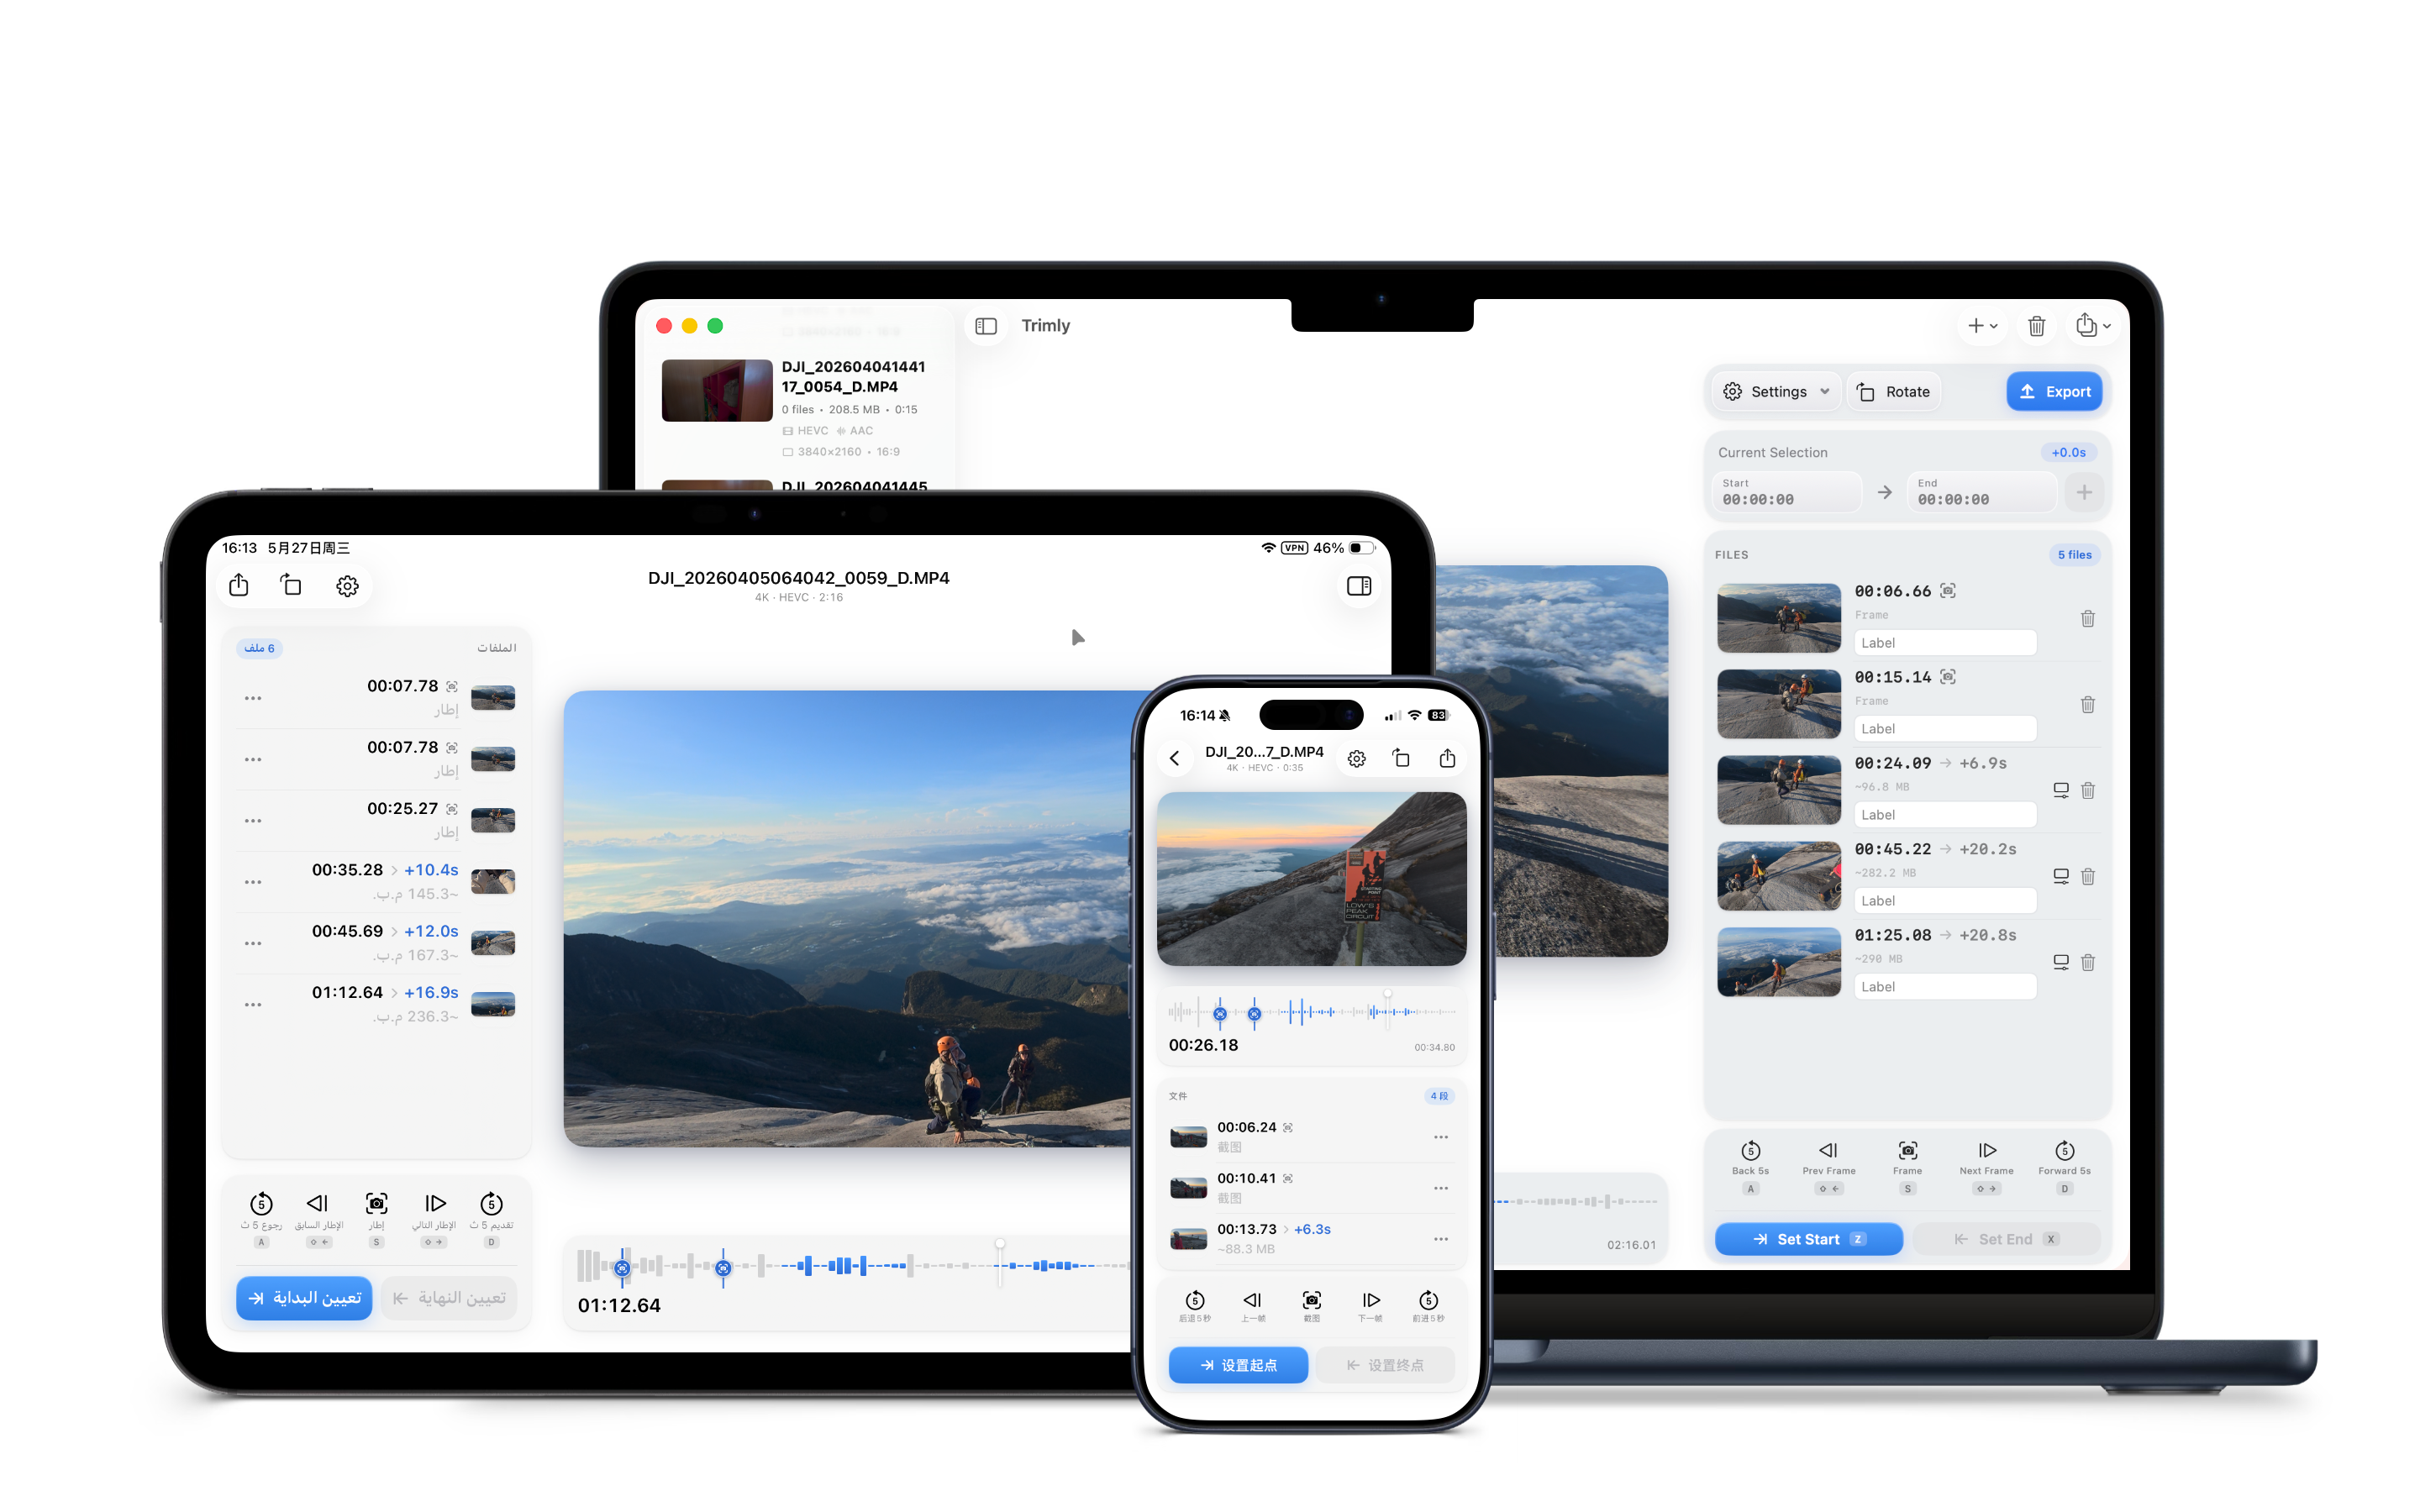
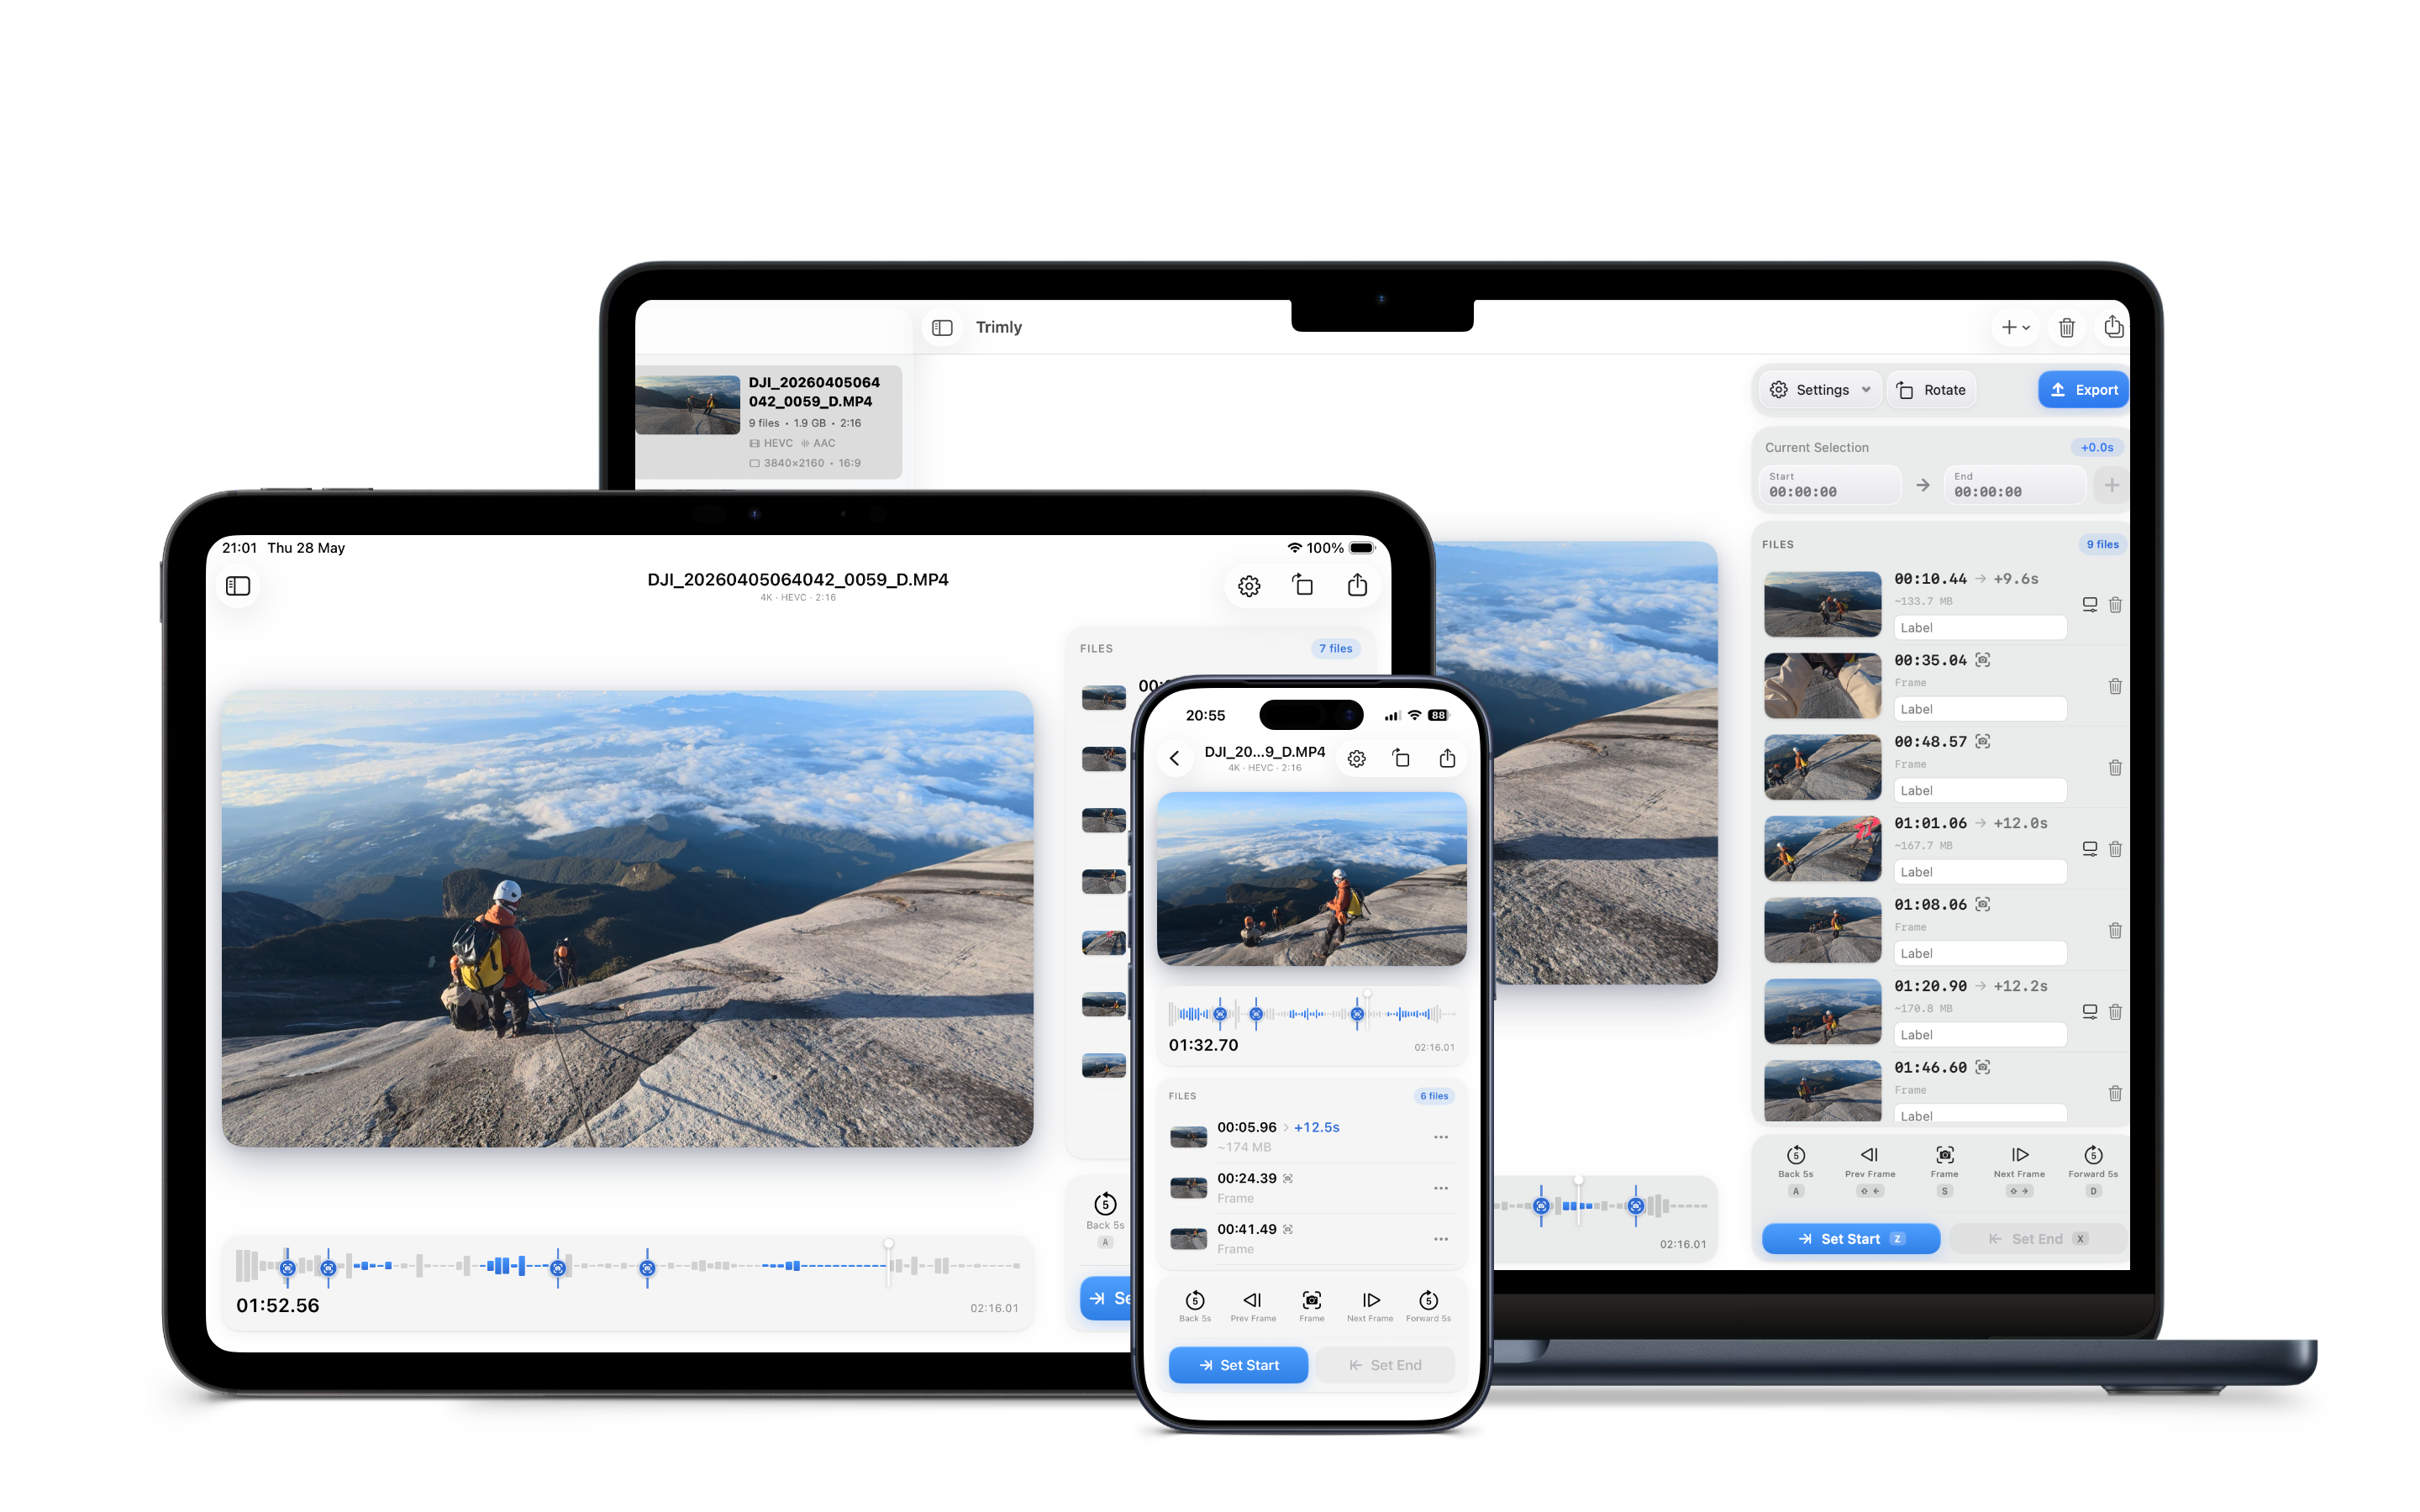
update

diff --git a/index.html b/index.html
@@ -437,130 +437,6 @@
       letter-spacing: 0.03em;
     }
 
-    /* === SHOWCASE (devices) === */
-    .showcase {
-      padding: 96px 24px;
-      background: var(--bg-dark);
-      color: #fff;
-      margin-top: 64px;
-    }
-
-    .showcase-inner { max-width: var(--max-w); margin: 0 auto; }
-
-    .showcase h2 {
-      text-align: center;
-      font-size: clamp(28px, 4vw, 40px);
-      font-weight: 700;
-      letter-spacing: -0.025em;
-      margin-bottom: 16px;
-    }
-
-    .showcase-subtitle {
-      text-align: center;
-      font-size: clamp(15px, 2vw, 18px);
-      color: rgba(255,255,255,0.5);
-      max-width: 480px;
-      margin: 0 auto 64px;
-    }
-
-    /* Carousel */
-    .carousel { max-width: 700px; margin: 0 auto; }
-
-    .carousel-stage {
-      position: relative;
-      height: 460px;
-      display: flex;
-      align-items: center;
-      justify-content: center;
-    }
-
-    .carousel-slide {
-      position: absolute;
-      inset: 0;
-      display: flex;
-      align-items: center;
-      justify-content: center;
-      opacity: 0;
-      transform: translateY(14px) scale(0.97);
-      transition: opacity 0.6s var(--ease), transform 0.6s var(--ease);
-      pointer-events: none;
-    }
-
-    .carousel-slide.active {
-      opacity: 1;
-      transform: none;
-      pointer-events: auto;
-    }
-
-    .carousel-dots {
-      display: flex;
-      justify-content: center;
-      gap: 10px;
-      margin-top: 32px;
-    }
-
-    .carousel-dot {
-      width: 8px;
-      height: 8px;
-      padding: 0;
-      border: none;
-      border-radius: 50%;
-      background: rgba(255,255,255,0.25);
-      cursor: pointer;
-      transition: width 0.3s var(--ease), background 0.3s var(--ease), border-radius 0.3s var(--ease);
-    }
-
-    .carousel-dot:hover { background: rgba(255,255,255,0.5); }
-    .carousel-dot.active { width: 24px; border-radius: 4px; background: #fff; }
-
-    @media (max-width: 767px) {
-      .showcase { padding: 64px 20px 72px; margin-top: 48px; }
-      .showcase-subtitle { margin-bottom: 48px; }
-      .carousel-stage { height: 400px; }
-    }
-
-    .device { border-radius: 16px; overflow: hidden; position: relative; }
-
-    .device-phone {
-      aspect-ratio: 9 / 19.5;
-      background: linear-gradient(145deg, #2c2c2e, #3a3a3c);
-      border: 1px solid rgba(255,255,255,0.08);
-      border-radius: 28px;
-      height: 100%;
-      width: auto;
-    }
-
-    .device-mac {
-      aspect-ratio: 2694 / 1758;
-      background: linear-gradient(145deg, #2c2c2e, #3a3a3c);
-      border: 1px solid rgba(255,255,255,0.08);
-      border-radius: 14px;
-      width: 100%;
-      max-width: 560px;
-    }
-
-    .device-ipad {
-      aspect-ratio: 2360 / 1640;
-      background: linear-gradient(145deg, #2c2c2e, #3a3a3c);
-      border: 1px solid rgba(255,255,255,0.08);
-      border-radius: 18px;
-      width: 100%;
-      max-width: 520px;
-    }
-
-    .device img { width: 100%; height: 100%; object-fit: cover; display: block; }
-
-    .device-label {
-      position: absolute;
-      bottom: 16px;
-      left: 0; right: 0;
-      text-align: center;
-      font-size: 13px;
-      font-weight: 500;
-      color: rgba(255,255,255,0.35);
-      letter-spacing: 0.03em;
-    }
-
     /* === PRIVACY === */
     .privacy {
       max-width: var(--max-w);
@@ -678,6 +554,61 @@
       to { opacity: 1; transform: translateY(0); }
     }
 
+
+    /* === DARK MODE === */
+    @media (prefers-color-scheme: dark) {
+      :root {
+        --text-primary:   #F5F5F7;
+        --text-secondary: #98989D;
+        --text-tertiary:  #636366;
+        --bg-primary:     #1C1C1E;
+        --bg-secondary:   #2C2C2E;
+        --bg-dark:        #000000;
+        --border-color:   rgba(255, 255, 255, 0.08);
+      }
+
+      /* Nav frosted glass — dark tint */
+      nav {
+        background: rgba(28, 28, 30, 0.85);
+      }
+
+      /* Language dropdown */
+      .lang-dropdown {
+        background: rgba(44, 44, 46, 0.96);
+        box-shadow: 0 4px 24px rgba(0, 0, 0, 0.4);
+      }
+      .lang-option:hover { background: rgba(255, 255, 255, 0.06); }
+
+      /* Hero CTA: white pill with dark text on dark bg */
+      .hero-cta {
+        background: #FFFFFF;
+        color: #1D1D1F;
+        box-shadow: 0 4px 16px rgba(0, 0, 0, 0.35);
+      }
+      .hero-cta:hover { box-shadow: 0 6px 24px rgba(0, 0, 0, 0.45); }
+
+      /* Feature eyebrows — brighter accent colours */
+      .feature-eyebrow.orange { color: #FF9500; }
+      .feature-eyebrow.blue   { color: #32ADE6; }
+      .feature-eyebrow.green  { color: #30D158; }
+      .feature-eyebrow.purple { color: #BF5AF2; }
+
+      /* Feature visual gradient cards — slightly more visible on dark */
+      .feature-visual.orange { background: linear-gradient(145deg, rgba(255,149,0,0.13), rgba(255,107,0,0.06)); }
+      .feature-visual.blue   { background: linear-gradient(145deg, rgba(50,173,230,0.13), rgba(0,122,255,0.06)); }
+      .feature-visual.green  { background: linear-gradient(145deg, rgba(48,209,88,0.13), rgba(36,176,72,0.06)); }
+      .feature-visual.purple { background: linear-gradient(145deg, rgba(191,90,242,0.13), rgba(120,40,200,0.06)); }
+
+      /* Mini window inside feature visual */
+      .fv-bar span  { background: rgba(255, 255, 255, 0.14); }
+      .fv-lines i   { background: rgba(255, 255, 255, 0.10); }
+
+      /* Badge gradients — boost opacity slightly */
+      .fv-badge.orange { background: linear-gradient(135deg, rgba(255,149,0,0.28), rgba(255,107,0,0.18)); }
+      .fv-badge.blue   { background: linear-gradient(135deg, rgba(50,173,230,0.28), rgba(0,122,255,0.18)); }
+      .fv-badge.green  { background: linear-gradient(135deg, rgba(48,209,88,0.28), rgba(36,176,72,0.18)); }
+      .fv-badge.purple { background: linear-gradient(135deg, rgba(191,90,242,0.28), rgba(120,40,200,0.18)); }
+    }
     /* === RTL === */
     body[dir="rtl"] .lang-dropdown { right: auto; left: 0; }
     body[dir="rtl"] .feature-points li { flex-direction: row-reverse; text-align: right; }
@@ -687,7 +618,6 @@
     :lang(ar) body { font-family: 'SF Arabic', -apple-system, BlinkMacSystemFont, 'Geeza Pro', 'Arial Unicode MS', Arial, sans-serif; }
     :lang(ar) .hero h1,
     :lang(ar) .feature-block h2,
-    :lang(ar) .showcase h2,
     :lang(ar) .privacy h2,
     :lang(ar) .bottom-cta h2 { line-height: 1.3; }
     :lang(ar) .hero-tagline,
@@ -764,7 +694,7 @@
       </svg>
     </div>
     <h1 data-i18n="hero.heading">Clip the best moments<br>from your longest videos.</h1>
-    <p class="hero-tagline" data-i18n="hero.tagline">A native media trimmer for iPhone, iPad, and Mac. Mark, trim, and batch export — in seconds, with zero re-encoding.</p>
+    <p class="hero-tagline" data-i18n="hero.tagline">A native media trimmer for iPhone, iPad, and Mac. Mark, trim, and batch export — in seconds.</p>
     <div class="hero-cta-row">
       <a class="hero-cta" href="https://apps.apple.com/app/trimly" target="_blank" rel="noopener">
         <svg viewBox="0 0 24 24" fill="currentColor"><path d="M18.71 19.5c-.83 1.24-1.71 2.45-3.05 2.47-1.34.03-1.77-.79-3.29-.79-1.53 0-2 .77-3.27.82-1.31.05-2.3-1.32-3.14-2.53C4.25 17 2.94 12.45 4.7 9.39c.87-1.52 2.43-2.48 4.12-2.51 1.28-.02 2.5.87 3.29.87.78 0 2.26-1.07 3.8-.91.65.03 2.47.26 3.64 1.98-.09.06-2.17 1.28-2.15 3.81.03 3.02 2.65 4.03 2.68 4.04-.03.07-.42 1.44-1.38 2.83M13 3.5c.73-.83 1.94-1.46 2.94-1.5.13 1.17-.34 2.35-1.04 3.19-.69.85-1.83 1.51-2.95 1.42-.15-1.15.41-2.35 1.05-3.11z"/></svg>
@@ -779,45 +709,16 @@
 
     <div class="hero-screenshot">
       <div class="screenshot-placeholder">
-        <img src="assets/header.webp" alt="Trimly on Mac, iPad, and iPhone">
+        <picture>
+          <source media="(prefers-color-scheme: dark)" srcset="assets/header-dark.webp">
+          <img src="assets/header.webp" alt="Trimly on Mac, iPad, and iPhone">
+        </picture>
       </div>
     </div>
   </section>
 
   <!-- DEEP FEATURE SECTIONS -->
   <section class="features" id="features"></section>
-
-  <!-- SHOWCASE -->
-  <section class="showcase">
-    <div class="showcase-inner">
-      <h2 class="fade-in" data-i18n="showcase.heading">Native on every Apple device.</h2>
-      <p class="showcase-subtitle fade-in" data-i18n="showcase.subtitle">iPhone, iPad, Mac. One app, every screen.</p>
-      <div class="carousel fade-in" id="deviceCarousel" style="transition-delay:0.1s">
-        <div class="carousel-stage">
-          <div class="carousel-slide active">
-            <div class="device device-phone">
-              <img src="assets/iphone.webp" alt="Trimly on iPhone">
-            </div>
-          </div>
-          <div class="carousel-slide">
-            <div class="device device-ipad">
-              <img src="assets/ipad.webp" alt="Trimly on iPad">
-            </div>
-          </div>
-          <div class="carousel-slide">
-            <div class="device device-mac">
-              <img src="assets/mac.webp" alt="Trimly on Mac">
-            </div>
-          </div>
-        </div>
-        <div class="carousel-dots">
-          <button class="carousel-dot active" aria-label="iPhone"></button>
-          <button class="carousel-dot" aria-label="iPad"></button>
-          <button class="carousel-dot" aria-label="Mac"></button>
-        </div>
-      </div>
-    </div>
-  </section>
 
   <!-- PRIVACY -->
   <section class="privacy fade-in">
@@ -885,7 +786,7 @@ const T = {
     nav: { features: 'Features', download: 'Download' },
     hero: {
       heading: 'Clip the best moments\nfrom your longest videos.',
-      tagline: 'A native media trimmer for iPhone, iPad, and Mac. Mark, trim, and batch export — in seconds, with zero re-encoding.',
+      tagline: 'A native media trimmer for iPhone, iPad, and Mac. Mark, trim, and batch export — in seconds.',
       cta: 'Download on the App Store',
       meta1: 'iPhone · iPad · Mac', meta2: 'Native app', meta3: '100% Offline'
     },
@@ -907,7 +808,6 @@ const T = {
       { eyebrow: 'iPad', title: 'Made for the big screen.', desc: 'iPad landscape uses a focused editing layout — player, timeline, clip controls, and export actions arranged side by side for faster review and batch clipping.',
         points: ['Focused landscape editing layout', 'Player, timeline, and clips at a glance', 'Built for fast batch review'] }
     ],
-    showcase: { heading: 'Native on every Apple device.', subtitle: 'iPhone, iPad, Mac. One app, every screen.' },
     privacy: {
       heading: 'Private by design.',
       body: 'Trimly runs fully on-device, never requests network access, has no accounts, and collects no user data. Your footage stays yours.',
@@ -944,7 +844,6 @@ const T = {
       { eyebrow: 'iPad', title: '为大屏而生', desc: 'iPad 横屏采用专注的编辑布局 — 播放器、时间线、片段控制与导出操作并排展示，让审阅和批量裁剪更高效。',
         points: ['专注的横屏编辑布局', '播放器、时间线与片段一目了然', '为快速批量审阅而设计'] }
     ],
-    showcase: { heading: '每台 Apple 设备的原生体验', subtitle: 'iPhone、iPad、Mac，一个 App，适配每块屏幕。' },
     privacy: {
       heading: '隐私，从设计之初',
       body: 'Trimly 完全在设备本地运行，从不请求网络访问，没有账号体系，也不收集任何用户数据。你的素材始终属于你。',
@@ -981,7 +880,6 @@ const T = {
       { eyebrow: 'iPad', title: '大画面のために。', desc: 'iPadの横向きでは集中できる編集レイアウトを採用 — プレーヤー、タイムライン、クリップ操作、書き出しを横並びに配置し、確認と一括クリップを高速化します。',
         points: ['集中できる横向き編集レイアウト', 'プレーヤー・タイムライン・クリップを一望', '高速な一括確認のために設計'] }
     ],
-    showcase: { heading: 'すべてのAppleデバイスでネイティブ。', subtitle: 'iPhone、iPad、Mac。ひとつのアプリで、すべての画面に。' },
     privacy: {
       heading: '設計段階からプライバシー重視。',
       body: 'Trimlyは完全に端末内で動作します。ネットワークへのアクセスを求めず、アカウントも不要、ユーザーデータも収集しません。あなたの映像は、あなたのものです。',
@@ -1020,7 +918,6 @@ const T = {
       { eyebrow: 'عربي أصيل', title: 'دعم كامل لاتجاه اليمين إلى اليسار.', desc: 'كل عنصر في Trimly — القوائم والجدول الزمني وقائمة المقاطع وأدوات التحكم وتدفق التصدير — يتبع اتجاه اليمين إلى اليسار بصورة أصيلة.',
         points: ['واجهة مستخدم كاملة من اليمين إلى اليسار', 'محرر الجدول الزمني ولوحات التحكم تعكسان الاتجاه', 'خطوط وتباعد محسّنان للنصوص العربية'] }
     ],
-    showcase: { heading: 'أصيل على كل أجهزة Apple.', subtitle: 'iPhone وiPad وMac. تطبيق واحد لكل شاشة.' },
     privacy: {
       heading: 'خصوصية بالتصميم.',
       body: 'تعمل Trimly بالكامل على جهازك. لا تطلب صلاحيات الشبكة، وليس لها نظام حسابات، ولا تجمع أي بيانات مستخدم. لقطاتك تبقى لك.',
@@ -1135,32 +1032,9 @@ function initAnimations() {
   document.querySelectorAll('.fade-in:not(.visible)').forEach(el => animObserver.observe(el));
 }
 
-function initCarousel() {
-  const c = document.getElementById('deviceCarousel');
-  if (!c) return;
-  const slides = [...c.querySelectorAll('.carousel-slide')];
-  const dots = [...c.querySelectorAll('.carousel-dot')];
-  let idx = 0, timer = null;
-
-  function go(n) {
-    idx = (n + slides.length) % slides.length;
-    slides.forEach((s, i) => s.classList.toggle('active', i === idx));
-    dots.forEach((d, i) => d.classList.toggle('active', i === idx));
-  }
-  function start() { stop(); timer = setInterval(() => go(idx + 1), 3500); }
-  function stop() { if (timer) { clearInterval(timer); timer = null; } }
-
-  dots.forEach((d, i) => d.addEventListener('click', () => { go(i); start(); }));
-  c.addEventListener('mouseenter', stop);
-  c.addEventListener('mouseleave', start);
-  go(0);
-  start();
-}
-
 document.addEventListener('DOMContentLoaded', () => {
   currentLang = detectLanguage();
   setLanguage(currentLang);
-  initCarousel();
 });
 </script>
 